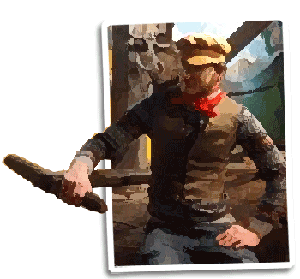
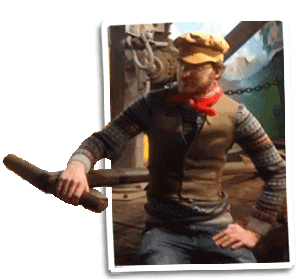
fixed picture, changed resume slightly

Changed region(s): [[0.0, 0.0573, 0.96, 0.9462], [0.12, 0.6595, 0.15, 0.6882], [0.03, 0.6022, 0.06, 0.6308]]

diff --git a/resume/index.html b/resume/index.html
@@ -10,7 +10,7 @@
 
      <style type="text/css">
         * { margin: 0; padding: 0; }
-        body { font: 16px Helvetica, Sans-Serif; line-height: 24px; background: url(images/noise.jpg); }
+        body { font: 16px Helvetica, Sans-Serif; line-height: 24px; background: url(images/noise.png); }
         .clear { clear: both; }
         #page-wrap { width: 800px; margin: 40px auto 60px; }
         #pic { float: right; margin: -30px 0 0 0; }
@@ -34,7 +34,7 @@
 
     <div id="page-wrap">
     
-        <img src="images/gabe.png" alt="Photo of Cthulu" id="pic" />
+        <img src="images/gabe.png" alt="Gabriel West" id="pic" />
     
         <div id="contact-info" class="vcard">
         
@@ -43,14 +43,16 @@
             <h1 class="fn">Gabriel West</h1>
         
             <p>
-                Cell: <span class="tel">+44(0)778-410-4351</span><br />
-                Email: <a class="email" href="mailto:gabriel.william.west@gmail.com">gabriel.william.west@gmail.com</a>
+                Cell: <span class="tel">+44 0778-410-4351</span><br />
+                Email: <a class="email" href="mailto:gabriel.william.west@gmail.com">gabriel.william.west@gmail.com</a><br />
+                GitHub: <a href="https://github.com/nihakue">https://github.com/nihakue</a>
+
             </p>
         </div>
                 
         <div id="objective">
             <p>
-                I'm a third year informatics undergrad looking to gain experience as part of a team interested in lasting, positive impact. I have an atypical background for a computer scientist, and though I am constantly working hard to develop my abilities as an engineer, I'm proud of the experiences that set me apart.
+                I am a third year CS undergraduate looking to gain experience as part of a team. I am interested in technology that provides a lasting, positive impact. I may have an atypical background for a computer scientist, but I've gained a slew of complementary skills, and a powerful passion for learning along the way.
             </p>
         </div>
         
@@ -61,7 +63,7 @@
             
             <dt>Education</dt>
             <dd>
-                <h2>University of Edinburgh, Scotland. (2013-Present)</h2>
+                <h2>University of Edinburgh, Scotland, UK (2013-Present)</h2>
                 <h2><span>School of Informatics (Visiting Student)</span></h2>
             </dd>
             <dd>
@@ -81,13 +83,15 @@
             <dd>
                 <h2>Programming Languages</h2>
                 <h3>Proficient</h3>
-                <p>Python, C/C++, Objective-C, Java, Matlab</p>
+                <p><strong>Python</strong>, C/C++, Objective-C, Java, Matlab</p>
                 <h3>Actively Learning</h3>
                 <p>Haskell, Coffee/JavaScript, Bash, HTML5/CSS, node.js, LaTeX</p>
                 <h2>Software</h2>
                 <p>gcc, pdb, vim, make, grunt, Unity3D, Photoshop, Unix/Linux, SketchUp, LAMP, MongoDB</p>
                 <h2>Computer Science</h2>
-                <p>AI, Machine Learning, NLP, iOS, Embedded Software, Vision</p>
+                <p>Robitics, AI, Machine Learning, NLP, iOS, Embedded Software, Vision</p>
+                <h2>Misc (because you never know)</h2>
+                <p>Carpentry, navigation, rigging, misc. seamanship, survival skills, gardening, parkour, wilderness first aid, <a href="http://www.stcw.org/">STCW certified</a></p>
             </dd>
             
             <dd class="clear"></dd>
